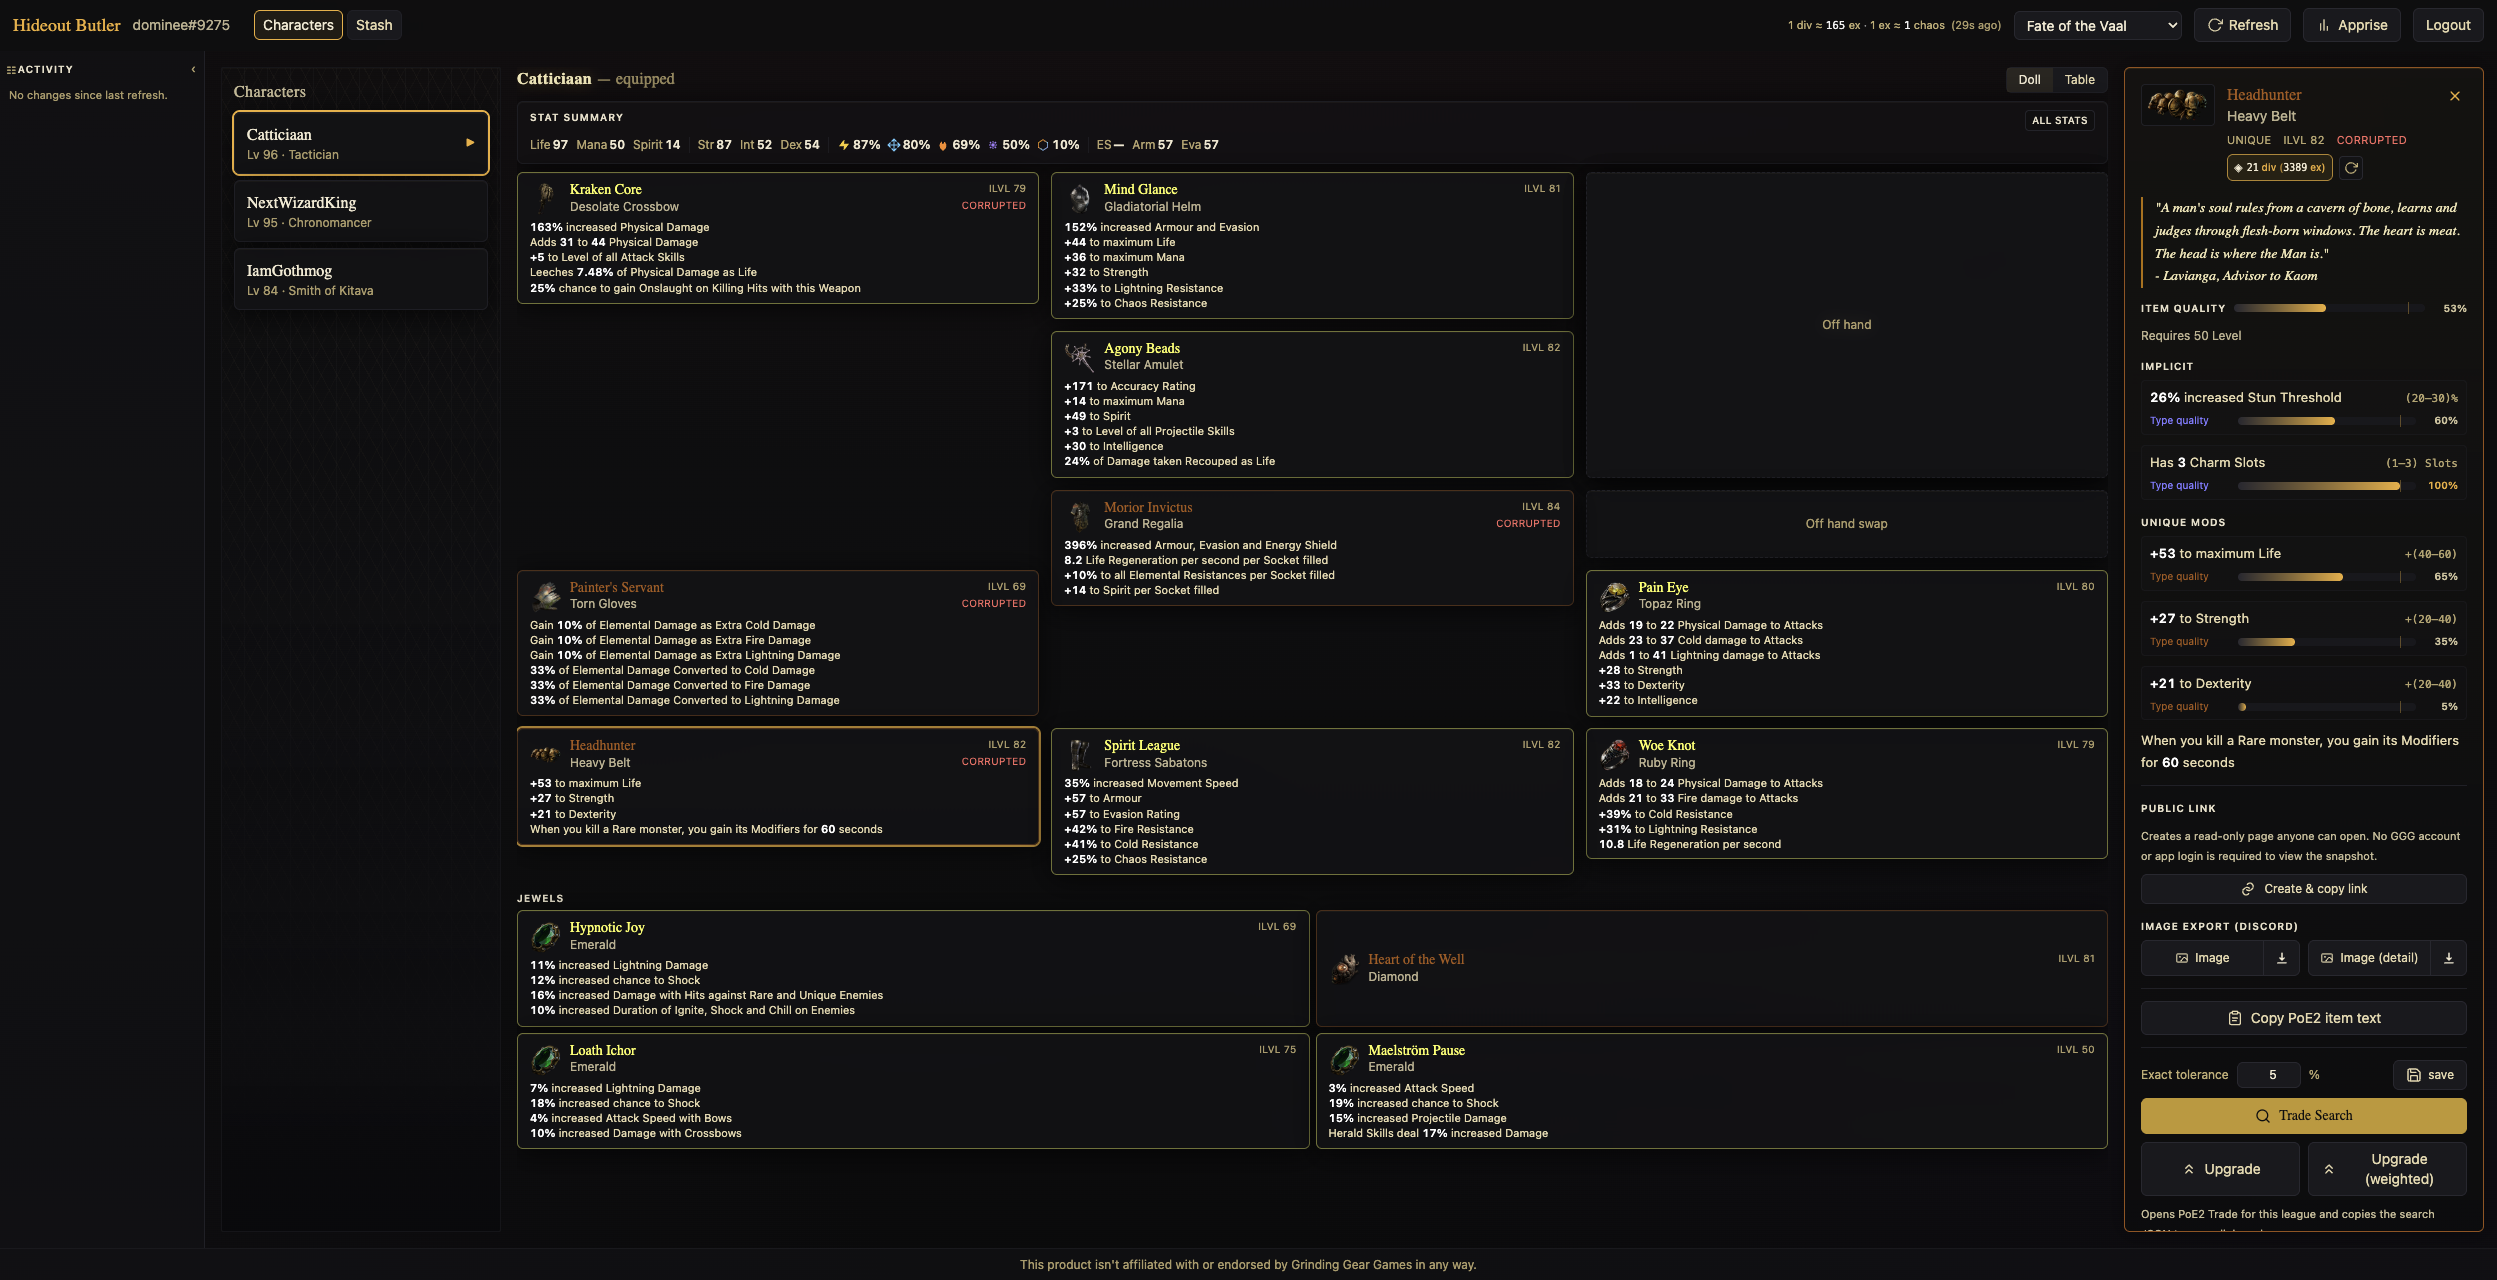
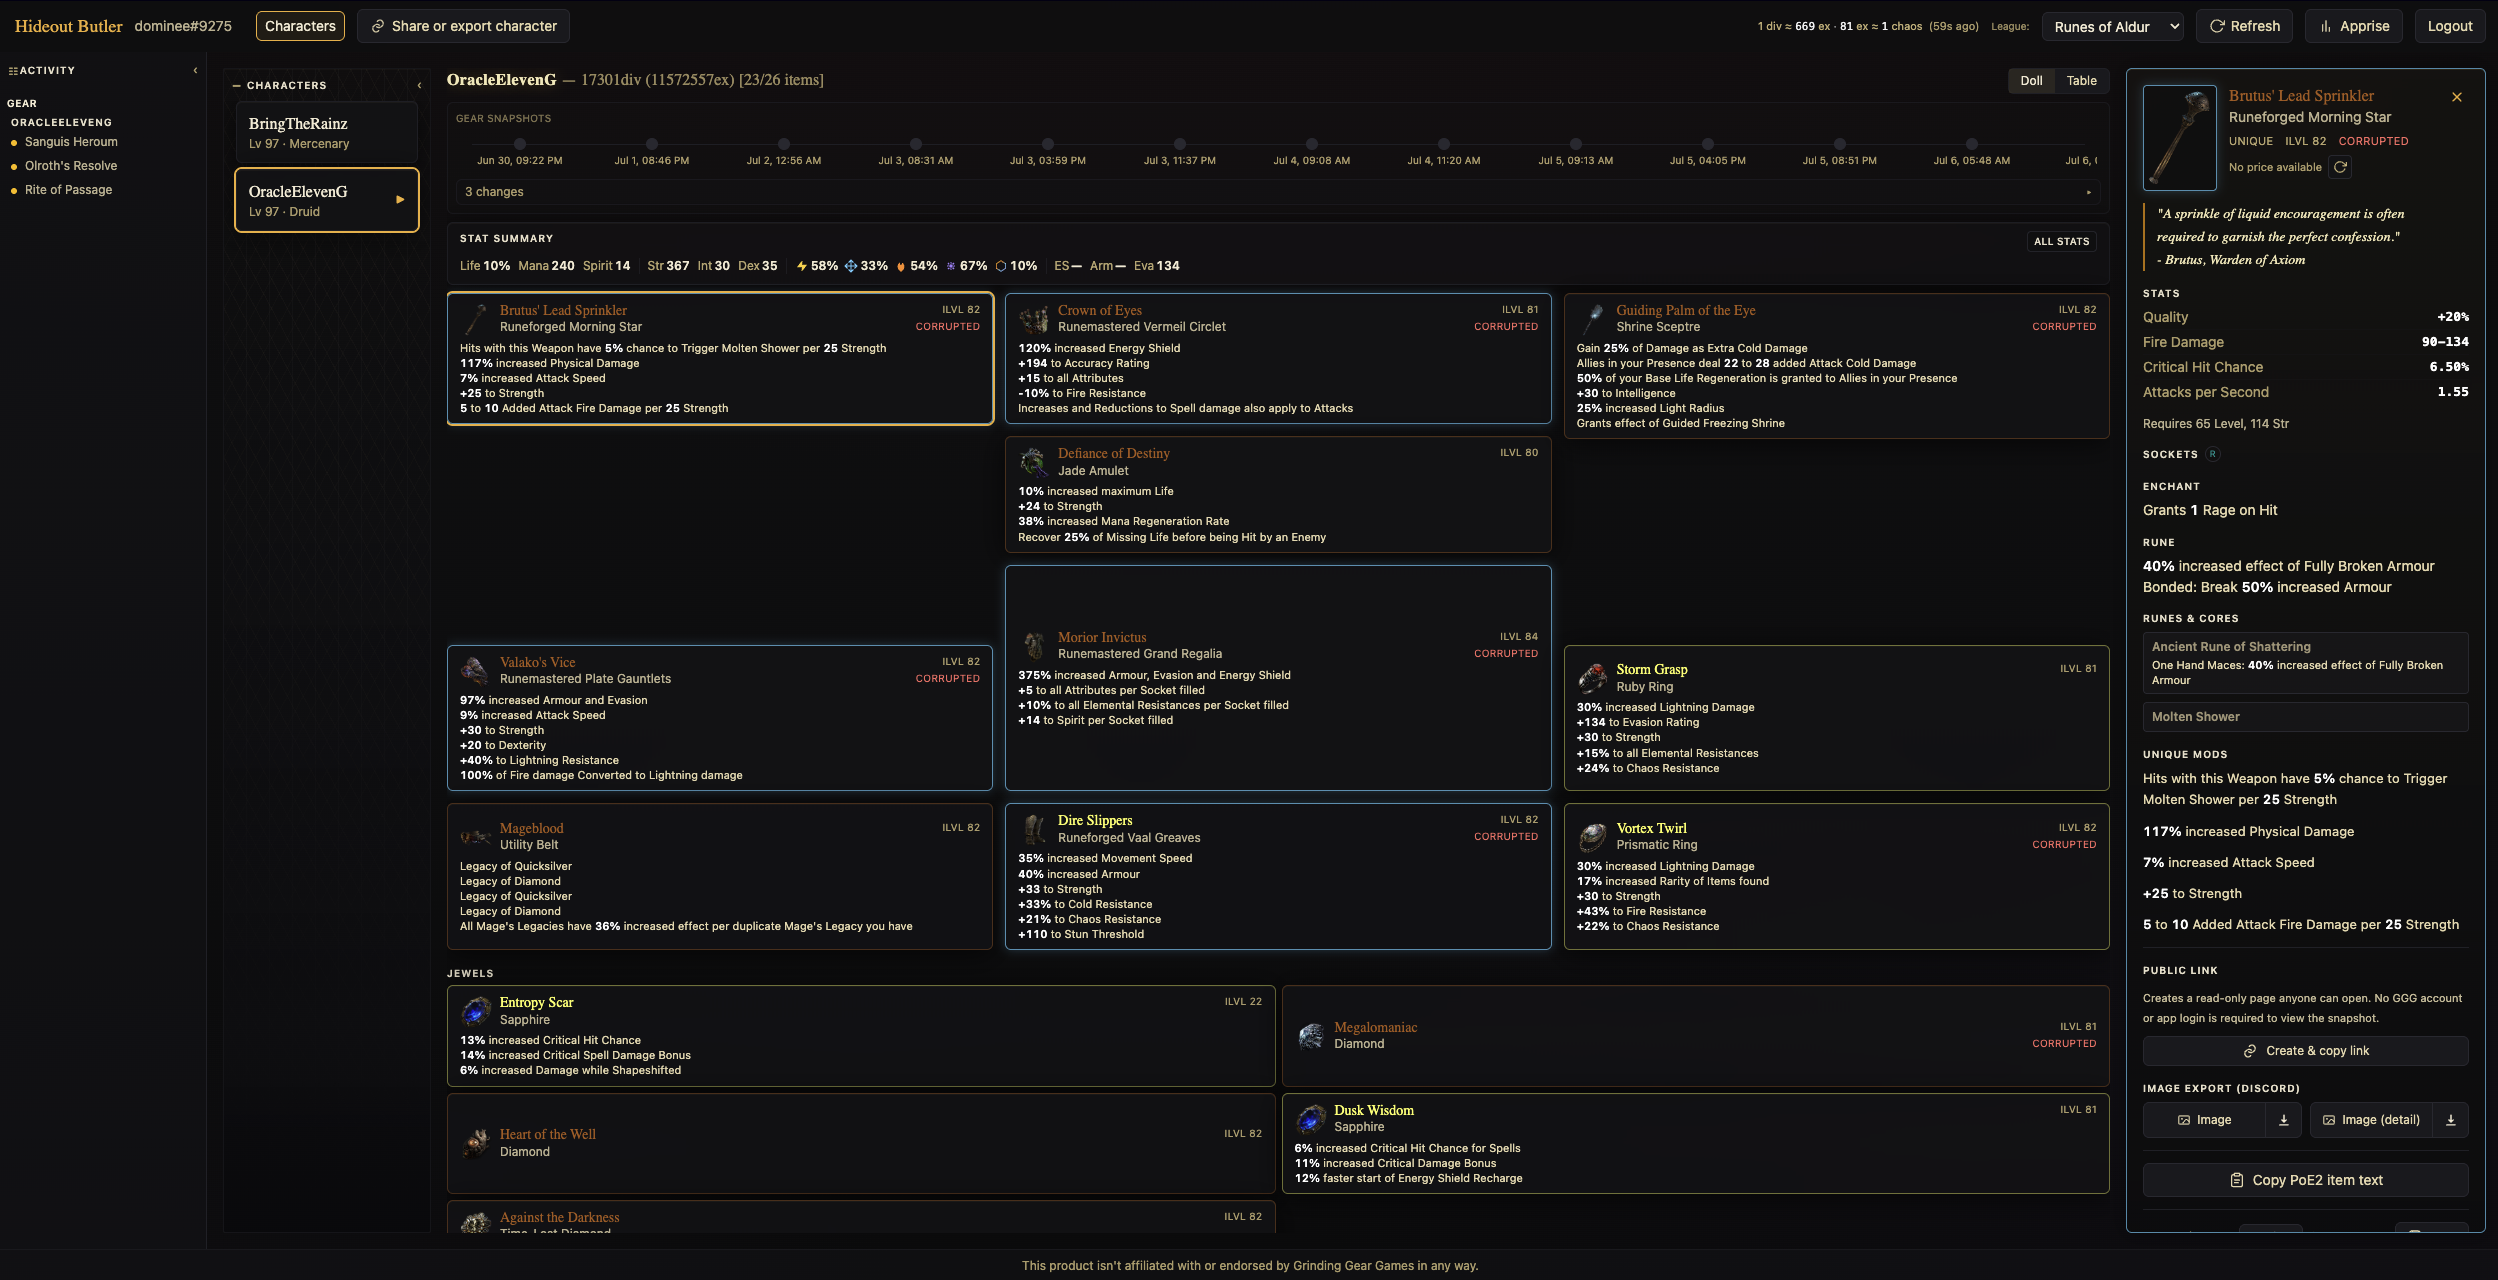
added highlights - timeline, character share and export

diff --git a/AGENTS.md b/AGENTS.md
@@ -20,15 +20,15 @@ Static marketing site for **PoE2 Hideout Butler** (main app: [PoE2-butler](https
 
 Single page ([`src/pages/index.astro`](src/pages/index.astro)) section order:
 
-1. Nav (sticky; favicon + links including How it works, Privacy)
+1. Nav (sticky; favicon + links including What's new, How it works, Privacy)
 2. Hero + StatusBanner (availability pills)
-3. HowItWorks → Features (grouped: Inspect / Trade / Share / Track) → Screenshots → UseCases
+3. **What's new** (recent highlights) → HowItWorks → Features → Screenshots → UseCases
 4. Privacy → Limitations → Roadmap → FAQ → CtaBand
 5. Footer + MobileStickyBar
 
 ## Assets
 
-Source screenshots in `screenshots/`; deployed copies in `public/screenshots/`.
+Source screenshots in `screenshots/` (PNG); deployed copies in `public/screenshots/` as **WebP** (`cwebp -q 82` for gallery; `-q 78` for very tall exports). Regenerate WebP after updating PNG sources.
 
 ## Mandatory copy
 
@@ -38,7 +38,7 @@ Footer must include verbatim GGG disclaimer:
 
 ## Messaging rules (2026-06)
 
-- **Live in production:** GGG OAuth2 with `account:profile` + `account:characters`; equipped gear via PoE2 `/character/poe2` API; paper doll and table views; activity diffs for character gear; runeforged item styling.
+- **Live in production:** GGG OAuth2 with `account:profile` + `account:characters`; equipped gear via PoE2 `/character/poe2` API; paper doll and table views; **gear snapshot timeline**; **character share links and image export**; activity diffs for character gear; runeforged item styling.
 - Do **not** imply live prod stash — GGG PoE2 stash OAuth scope is not available yet.
 - Stash feature card carries “Blocked on GGG API” badge; stash screenshots labelled demo/dev.
 - **`account:leagues` not granted** — league picker is inferred from character data; mention in Limitations / FAQ when relevant.